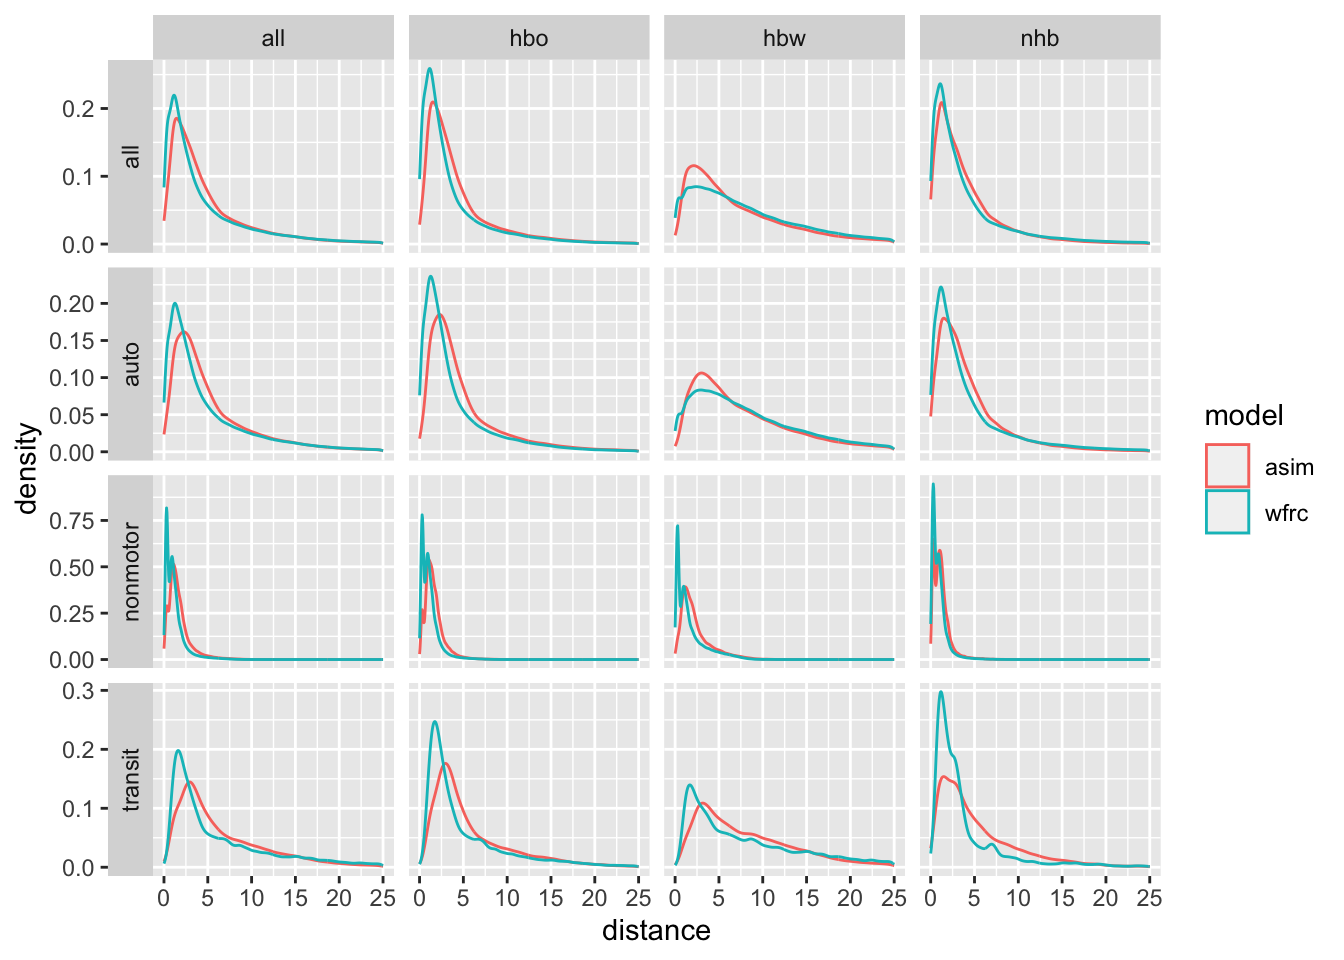
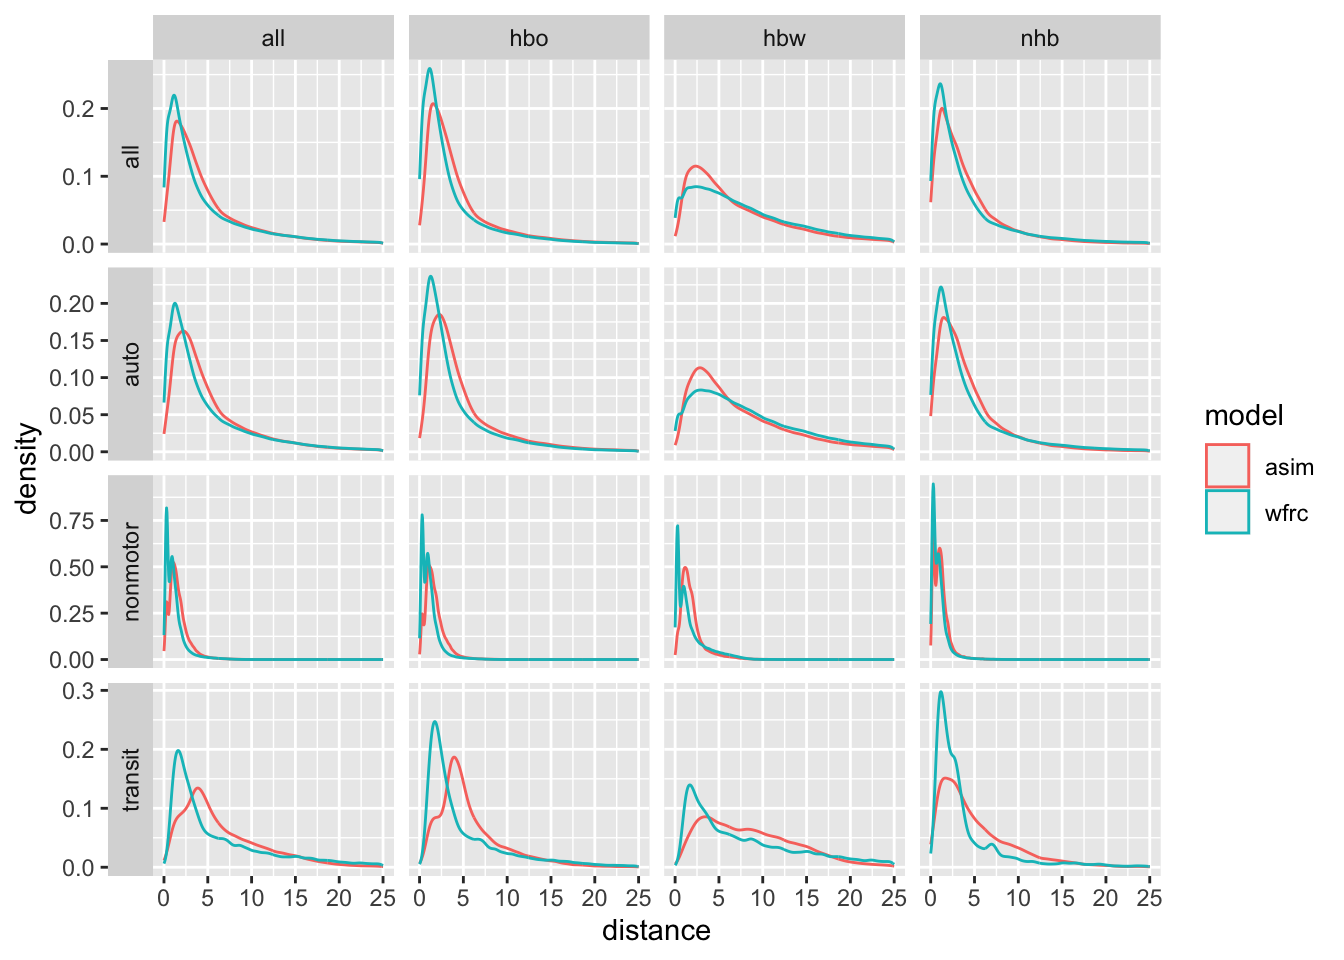
Built site for gh-pages

diff --git a/methods.html b/methods.html
@@ -252,22 +252,22 @@ ul.task-list li input[type="checkbox"] {
 # Groups:   mode [4]
    purpose mode        asim     wfrc   error
    &lt;chr&gt;   &lt;chr&gt;      &lt;dbl&gt;    &lt;dbl&gt;   &lt;dbl&gt;
- 1 all     all      7381536 8737729. -0.155 
- 2 all     auto     5893606 7905927. -0.255 
- 3 all     nonmotor 1008530  732250.  0.377 
- 4 all     transit   479400   99551.  3.82  
- 5 hbo     all      3695365 4641724. -0.204 
- 6 hbo     auto     2900838 4094887. -0.292 
- 7 hbo     nonmotor  587030  509491.  0.152 
- 8 hbo     transit   207497   37346.  4.56  
- 9 hbw     all      1759663 1711578.  0.0281
-10 hbw     auto     1376863 1586413. -0.132 
-11 hbw     nonmotor  205597   76413.  1.69  
-12 hbw     transit   177203   48752.  2.63  
-13 nhb     all      1926508 2384427. -0.192 
-14 nhb     auto     1615905 2224628. -0.274 
-15 nhb     nonmotor  215903  146346.  0.475 
-16 nhb     transit    94700   13453.  6.04  </code></pre>
+ 1 all     all      7441918 8737729. -0.148 
+ 2 all     auto     6515379 7905927. -0.176 
+ 3 all     nonmotor  768463  732250.  0.0495
+ 4 all     transit   158076   99551.  0.588 
+ 5 hbo     all      3696056 4641724. -0.204 
+ 6 hbo     auto     3092740 4094887. -0.245 
+ 7 hbo     nonmotor  531497  509491.  0.0432
+ 8 hbo     transit    71819   37346.  0.923 
+ 9 hbw     all      1759501 1711578.  0.0280
+10 hbw     auto     1617449 1586413.  0.0196
+11 hbw     nonmotor   85430   76413.  0.118 
+12 hbw     transit    56622   48752.  0.161 
+13 nhb     all      1986361 2384427. -0.167 
+14 nhb     auto     1805190 2224628. -0.189 
+15 nhb     nonmotor  151536  146346.  0.0355
+16 nhb     transit    29635   13453.  1.20  </code></pre>
 </div>
 </div>
 <div class="cell">
